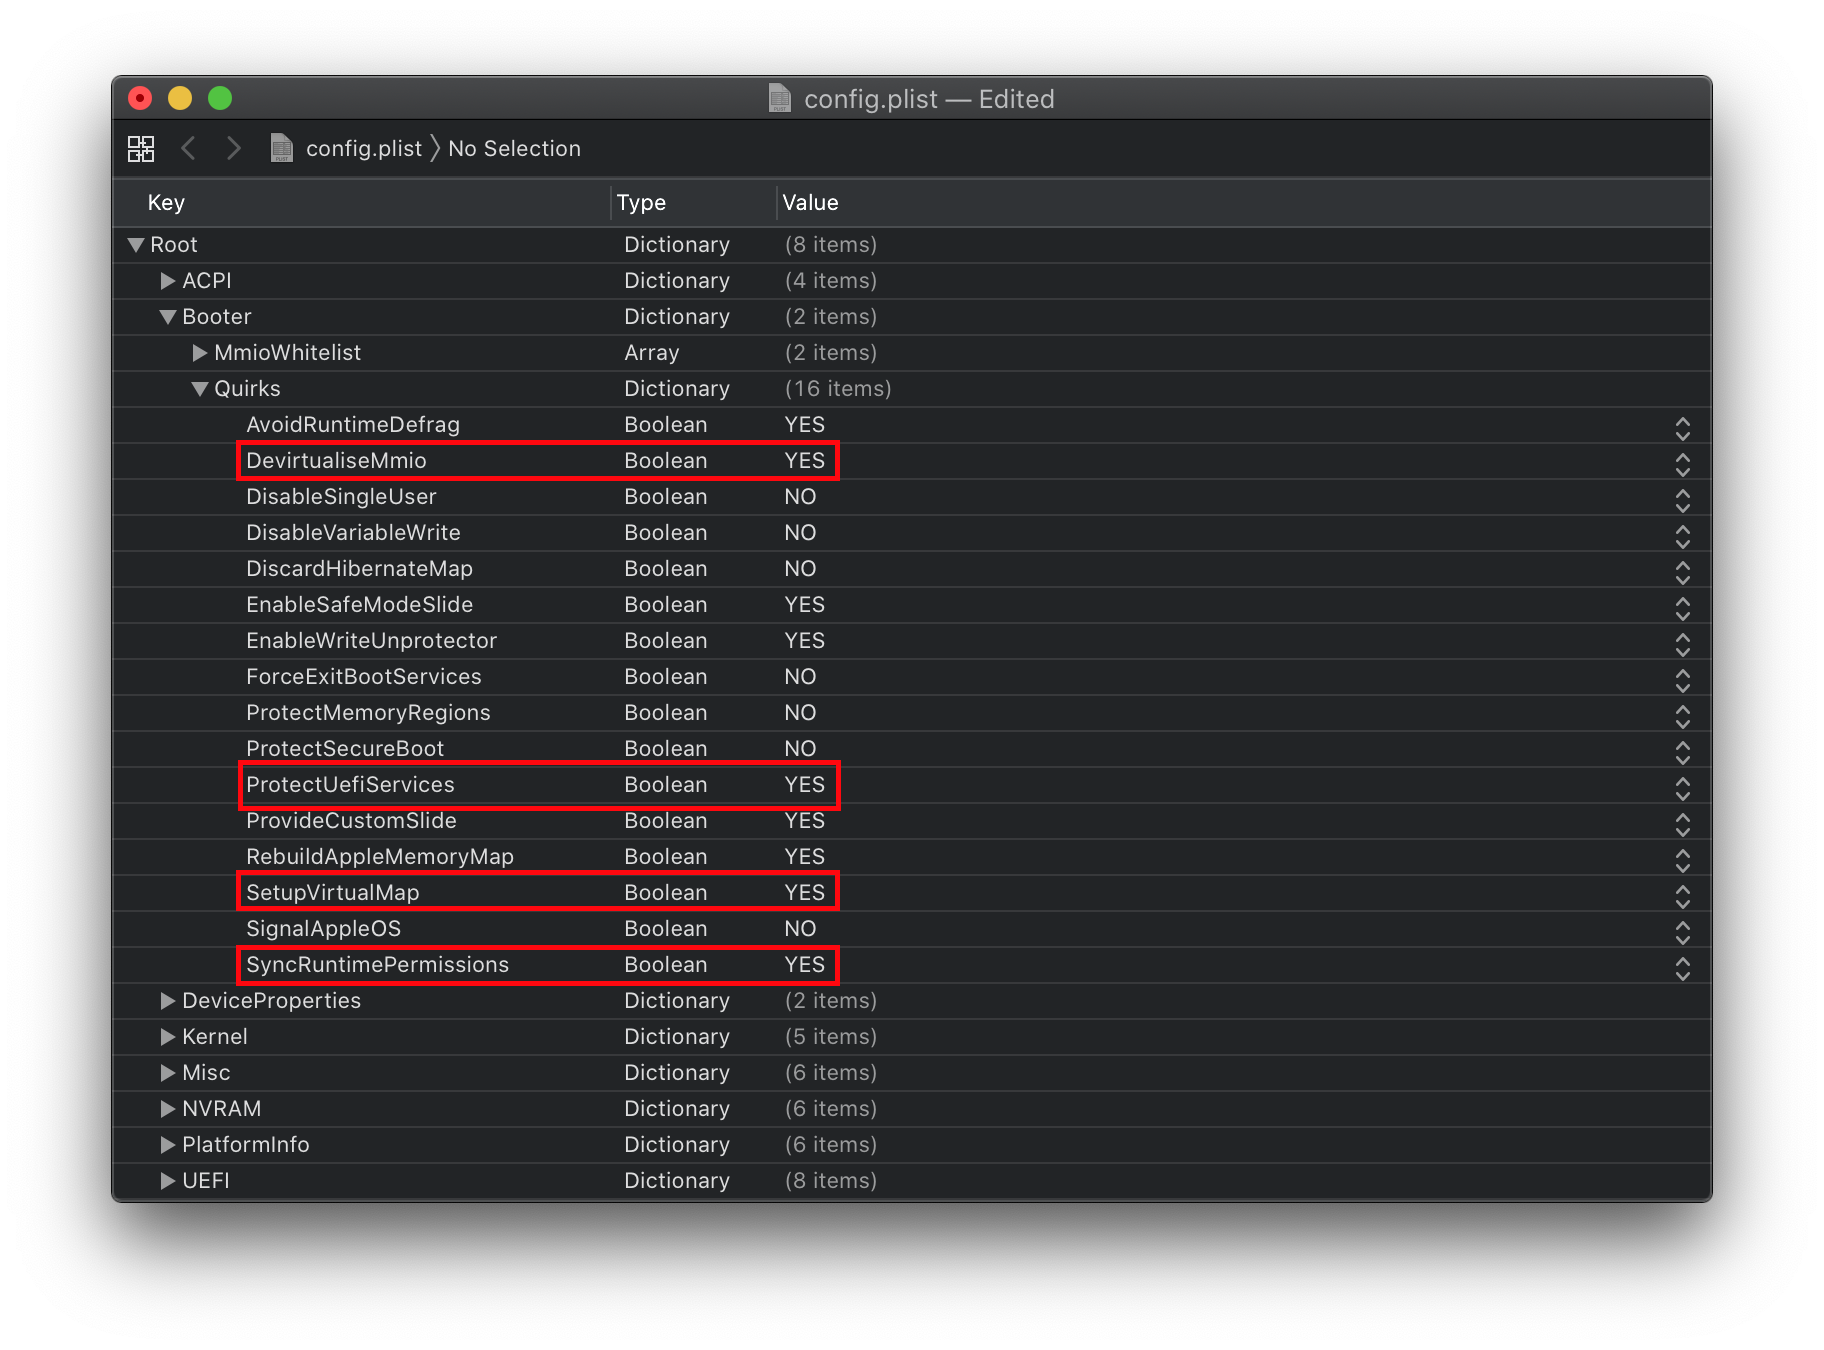
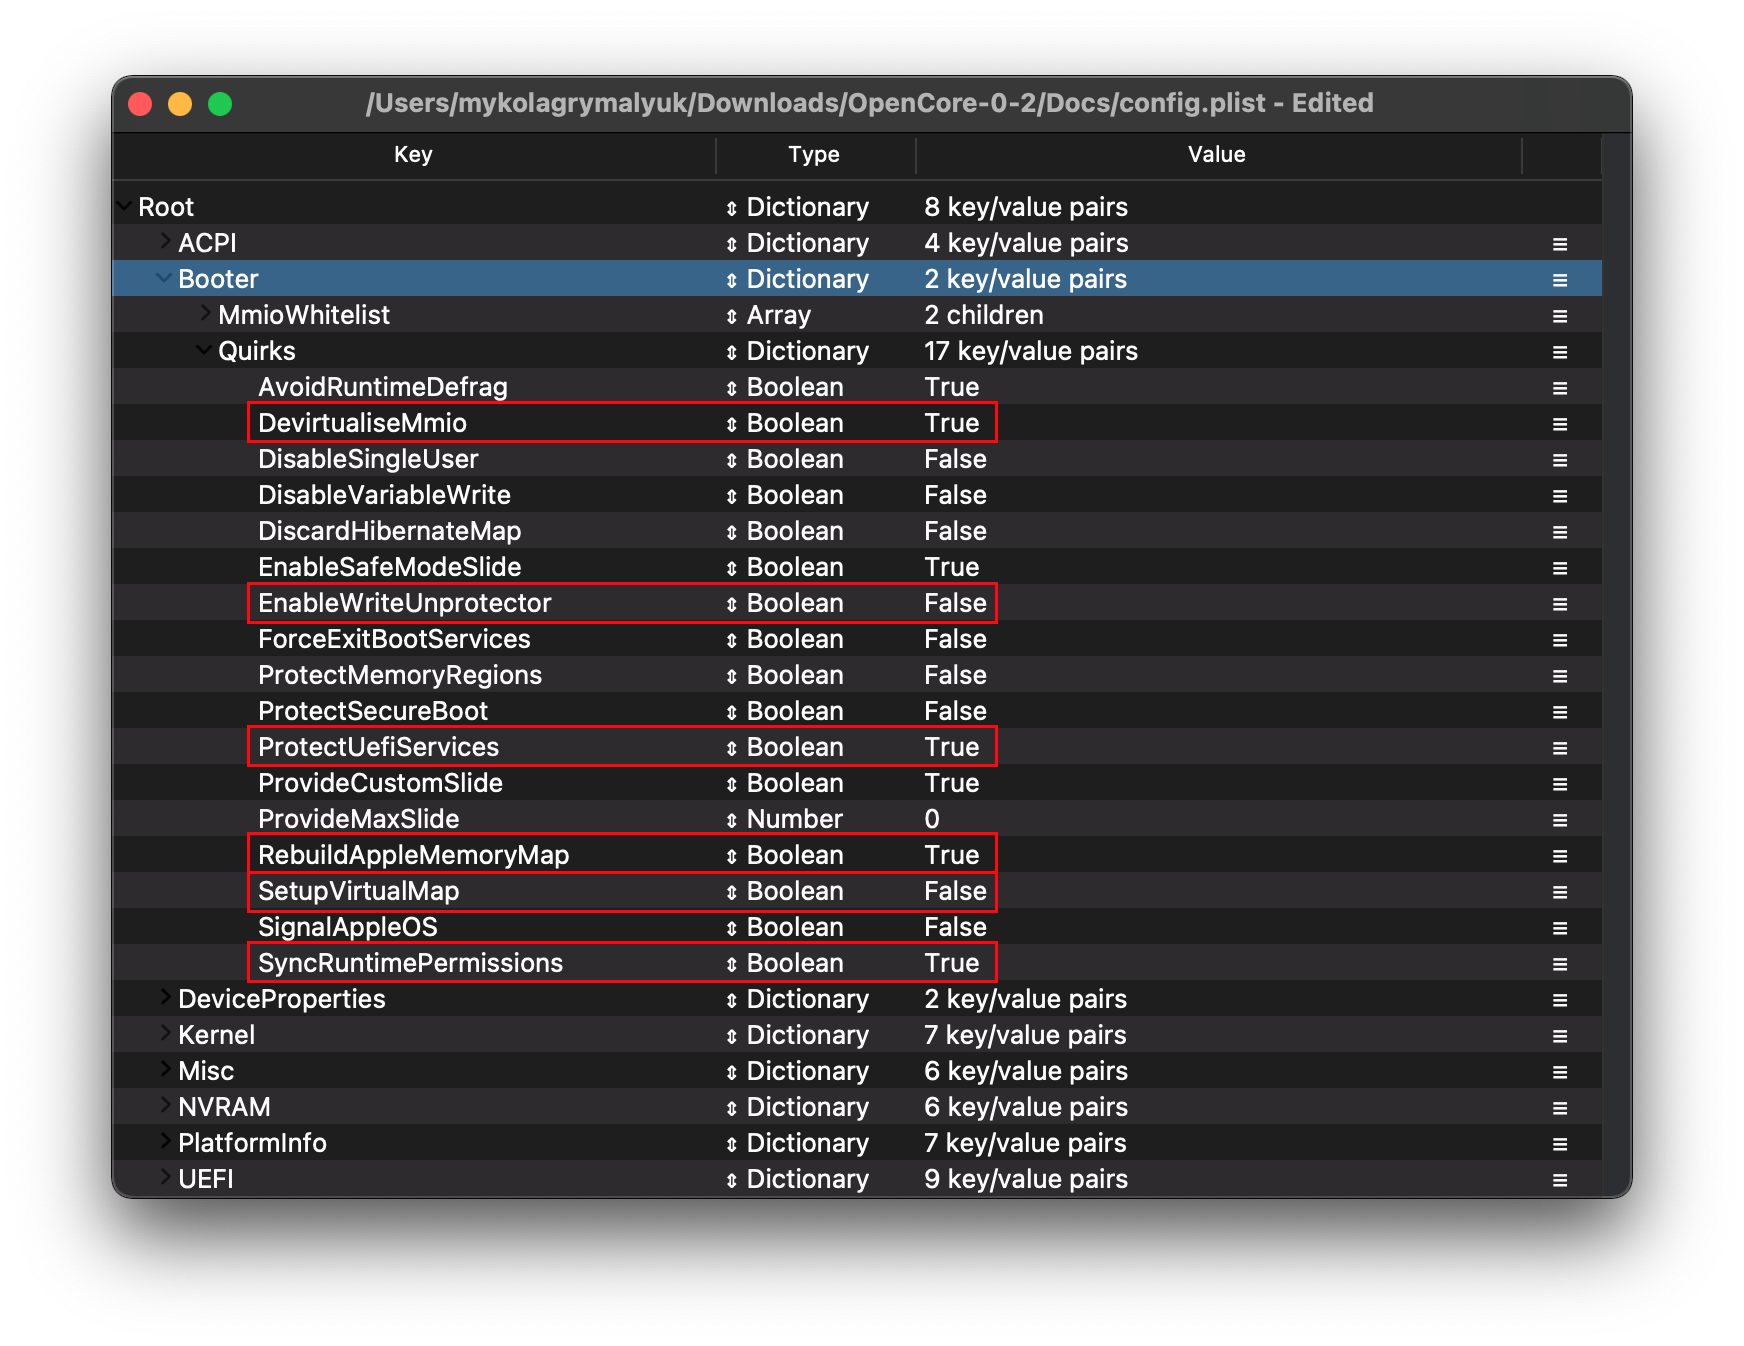
Fix misc issues
Closes https://github.com/dortania/bugtracker/issues/108

Changed region(s): [[0.0619, 0.0624, 0.9599, 0.9049], [0.867, 0.2808, 0.8979, 0.312]]

diff --git a/ktext.md b/ktext.md
@@ -203,7 +203,7 @@ pci1d6a,c0   = Aquantia AQC113
 pci1d6a,4c0  = Aquantia AQC113
 ```
 
-**Note**: Due to some outdated firmware shipped on many Aquantia NICs, you may need to update the firmware in Linux/Windows to ensure its macOS-compatible.
+**Note**: Due to some outdated firmware shipped on many Aquantia NICs, you may need to update the firmware in Linux/Windows to ensure it's macOS-compatible.
 
 #### Intel Series
 
@@ -264,10 +264,9 @@ pci14e4,1686 = Broadcom BCM57766
 
 * [AirportItlwm](https://github.com/OpenIntelWireless/itlwm/releases)
   * Adds support for a large variety of Intel wireless cards and works natively in recovery thanks to IO80211Family integration
-  * Note sleep issues are common with this kext, requires macOS 10.15 or newer and requires Apple's Secure Boot to function correctly
+  * Requires macOS 10.13 or newer and requires Apple's Secure Boot to function correctly
 * [IntelBluetoothFirmware](https://github.com/OpenIntelWireless/IntelBluetoothFirmware/releases)
   * Adds Bluetooth support to macOS when paired with an Intel wireless card
-  * Note that similar to AirportItlwm, sleep can break with this kext
   * Requires macOS 10.13 or newer
 
 ::: details More info on enabling AirportItlwm
@@ -335,6 +334,7 @@ However ProperTree will handle this for you, so you need not concern yourself
 * [SATA-Unsupported](https://github.com/khronokernel/Legacy-Kexts/blob/master/Injectors/Zip/SATA-unsupported.kext.zip)
   * Adds support for a large variety of SATA controllers, mainly relevant for laptops which have issues seeing the SATA drive in macOS. We recommend testing without this first.
   * macOS Big Sur Note: [CtlnaAHCIPort](https://github.com/dortania/OpenCore-Install-Guide/blob/master/extra-files/CtlnaAHCIPort.kext.zip) will need to be used instead due to numerous controllers being dropped from the binary itself
+    * Catalina and older need not concern
 
 ::: details Legacy SATA Kexts
 

diff --git a/config-laptop.plist/icelake.md b/config-laptop.plist/icelake.md
@@ -99,6 +99,7 @@ Settings relating to boot.efi patching and firmware fixes, for us, we need to ch
 | EnableWriteUnprotector | NO |
 | ProtectUefiServices | YES |
 | RebuildAppleMemoryMap | YES |
+| SetupVirtualMap | NO |
 | SyncRuntimePermissions | YES |
 :::
 
@@ -116,8 +117,8 @@ Settings relating to boot.efi patching and firmware fixes, for us, we need to ch
   * If on Z390, **enable this quirk**
 * **RebuildAppleMemoryMap**: YES
   * Generates Memory Map compatible with macOS, can break on some laptop OEM firmwares so if you receive early boot failures disable this
-* **SetupVirtualMap**: YES
-  * Fixes SetVirtualAddresses calls to virtual addresses, shouldn't be needed on Skylake and newer. Some firmware like Gigabyte may still require it, and will kernel panic without this
+* **SetupVirtualMap**: NO
+  * Fixes SetVirtualAddresses calls to virtual addresses, can cause early kernel panics on Ice Lake machines
 * **SyncRuntimePermissions**: YES
   * Fixes alignment with MAT tables and required to boot Windows and Linux with MAT tables, also recommended for macOS. Mainly relevant for RebuildAppleMemoryMap users
 

diff --git a/installer-guide/mac-install.md b/installer-guide/mac-install.md
@@ -192,7 +192,7 @@ Instructions for running are quite simple, choose from one of the below commands
 ./macrecovery.py -b Mac-7BA5B2DFE22DDD8C -m 00000000000KXPG00 download
 
 # Catalina(10.15)
-./macrecovery.py -b Mac-27AD2F918AE68F61 -m 00000000000K7GF00 download
+./macrecovery.py -b Mac-27AD2F918AE68F61 -m 00000000000K3F700 download
 
 # Latest version
 # ie. Big Sur(11)

diff --git a/installer-guide/linux-install.md b/installer-guide/linux-install.md
@@ -50,7 +50,7 @@ Next, run one of the following commands depending on the OS you'd like to boot:
 ./macrecovery.py -b Mac-7BA5B2DFE22DDD8C -m 00000000000KXPG00 download
 
 # Catalina(10.15)
-./macrecovery.py -b Mac-27AD2F918AE68F61 -m 00000000000K7GF00 download
+./macrecovery.py -b Mac-27AD2F918AE68F61 -m 00000000000K3F700 download
 
 # Latest version
 # ie. Big Sur(11)

diff --git a/installer-guide/winblows-install.md b/installer-guide/winblows-install.md
@@ -54,7 +54,7 @@ macrecovery.py -b Mac-BE088AF8C5EB4FA2 -m 00000000000J80300 download
 macrecovery.py -b Mac-7BA5B2DFE22DDD8C -m 00000000000KXPG00 download
 
 # Catalina(10.15)
-macrecovery.py -b Mac-27AD2F918AE68F61 -m 00000000000K7GF00 download
+macrecovery.py -b Mac-27AD2F918AE68F61 -m 00000000000K3F700 download
 
 # Latest version
 # ie. Big Sur(11)

diff --git a/changelog.md b/changelog.md
@@ -7,3 +7,5 @@
 * Add M1 series Apple Silicon SMBIOS
 * Rewrite Windows and Linux guide to use macrecovery.py
 * Update macrecovery.py links for Big Sur
+* Fix Ice Lake SetupVirtualMap setting
+* Fix macrecovery.py command for 10.15
